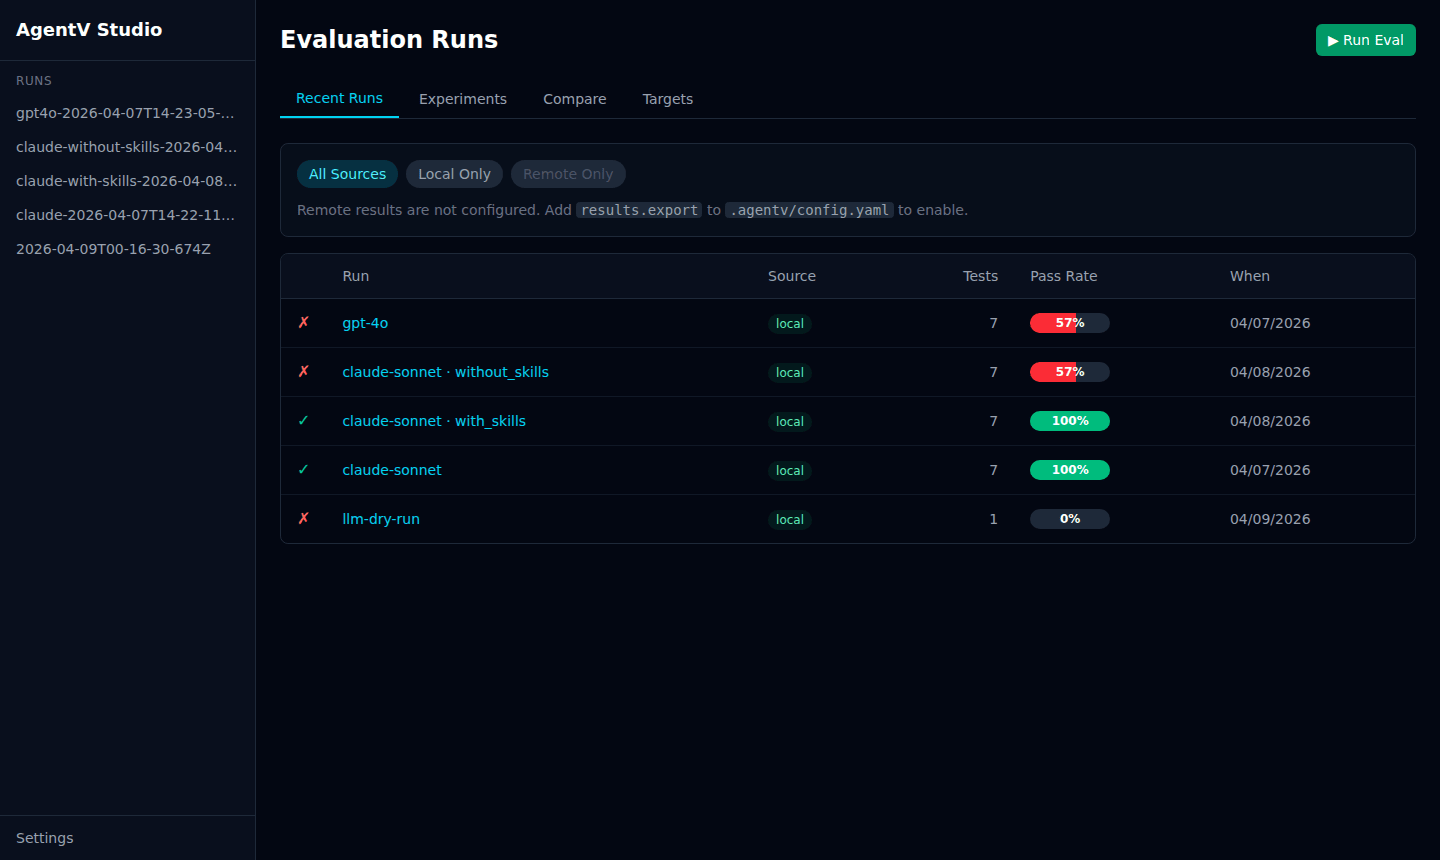
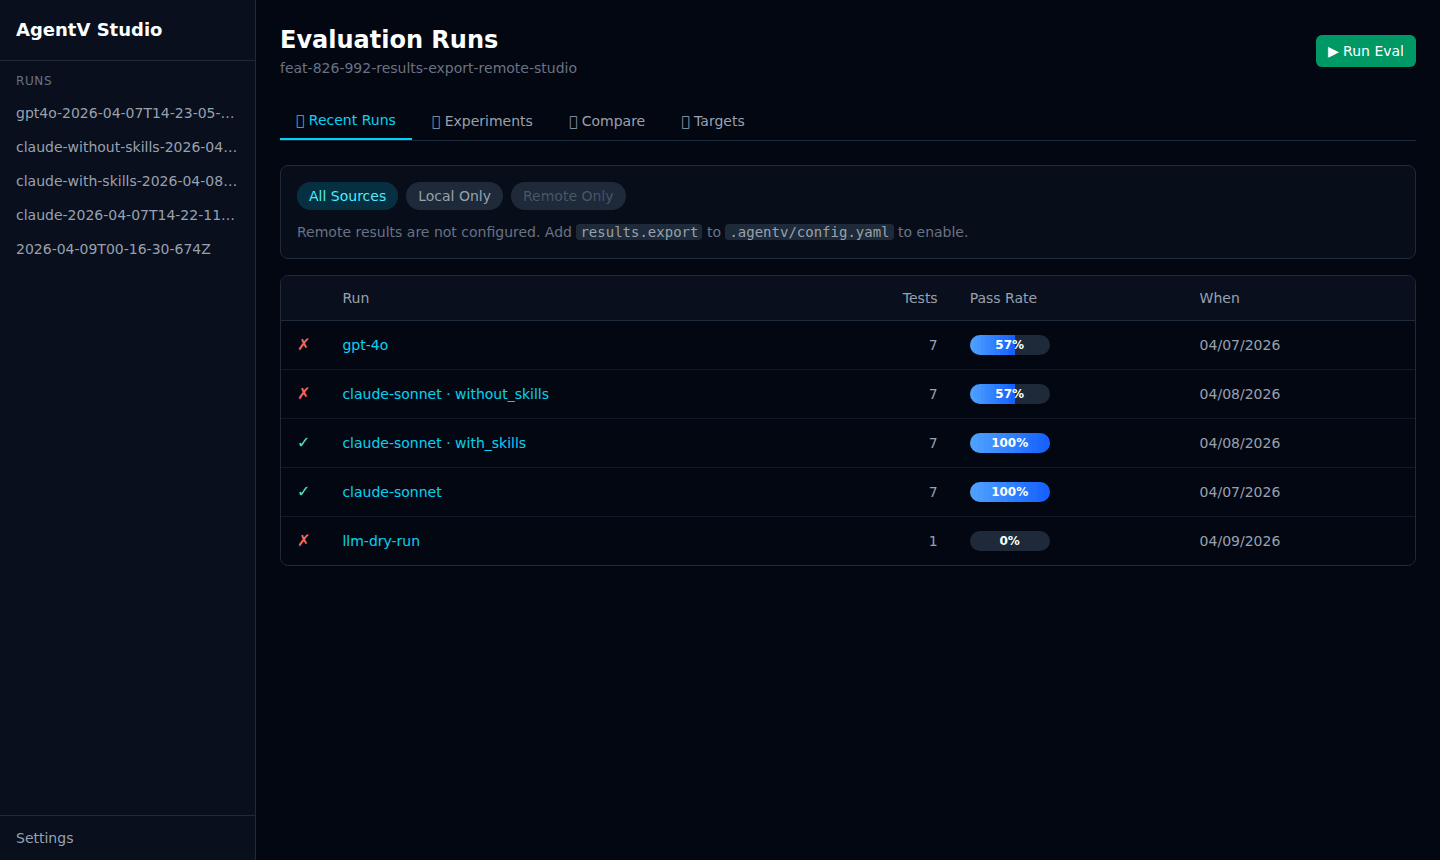
feat(studio): show project name in heading; drop Source column from run list
- /api/config now returns project_name (basename of cwd) so Studio shows it
  as a muted subtitle under the Evaluation Runs heading
- Remove per-row Source column from RunList — source is a project-level
  concern already covered by the All Sources / Local Only / Remote Only toolbar
- Update screenshots

diff --git a/apps/studio/src/components/RunList.tsx b/apps/studio/src/components/RunList.tsx
@@ -82,7 +82,6 @@ export function RunList({ runs, projectId, emptyMessage }: RunListProps) {
           <tr>
             <th className="w-8 px-4 py-3" />
             <th className="px-4 py-3 font-medium text-gray-400">Run</th>
-            <th className="px-4 py-3 font-medium text-gray-400">Source</th>
             <th className="px-4 py-3 text-right font-medium text-gray-400">Tests</th>
             <th className="px-4 py-3 font-medium text-gray-400">Pass Rate</th>
             <th className="px-4 py-3 font-medium text-gray-400">When</th>
@@ -123,19 +122,6 @@ export function RunList({ runs, projectId, emptyMessage }: RunListProps) {
                       {label}
                     </Link>
                   )}
-                </td>
-
-                {/* Source badge */}
-                <td className="px-4 py-3">
-                  <span
-                    className={`inline-flex rounded-full px-2 py-0.5 text-xs font-medium ${
-                      run.source === 'remote'
-                        ? 'bg-amber-500/10 text-amber-300'
-                        : 'bg-emerald-500/10 text-emerald-300'
-                    }`}
-                  >
-                    {run.source}
-                  </span>
                 </td>
 
                 {/* Test count */}

diff --git a/apps/studio/src/routes/index.tsx b/apps/studio/src/routes/index.tsx
@@ -220,7 +220,12 @@ function SingleProjectHome() {
   return (
     <div className="space-y-6">
       <div className="flex items-center justify-between">
-        <h1 className="text-2xl font-semibold text-white">Evaluation Runs</h1>
+        <div>
+          <h1 className="text-2xl font-semibold text-white">Evaluation Runs</h1>
+          {config?.project_name && (
+            <p className="mt-0.5 text-sm text-gray-500">{config.project_name}</p>
+          )}
+        </div>
         {!isReadOnly && (
           <button
             type="button"

diff --git a/apps/cli/src/commands/results/serve.ts b/apps/cli/src/commands/results/serve.ts
@@ -666,10 +666,15 @@ async function handleTargets(c: C, { searchDir, agentvDir }: DataContext) {
   return c.json({ targets });
 }
 
-function handleConfig(c: C, { agentvDir }: DataContext, options?: { readOnly?: boolean }) {
+function handleConfig(
+  c: C,
+  { agentvDir, searchDir }: DataContext,
+  options?: { readOnly?: boolean },
+) {
   return c.json({
     ...loadStudioConfig(agentvDir),
     read_only: options?.readOnly === true,
+    project_name: path.basename(searchDir),
   });
 }
 

diff --git a/apps/studio/src/lib/types.ts b/apps/studio/src/lib/types.ts
@@ -199,6 +199,7 @@ export interface StudioConfigResponse {
   /** @deprecated Use threshold */
   pass_threshold?: number;
   read_only?: boolean;
+  project_name?: string;
 }
 
 export interface RemoteStatusResponse {
